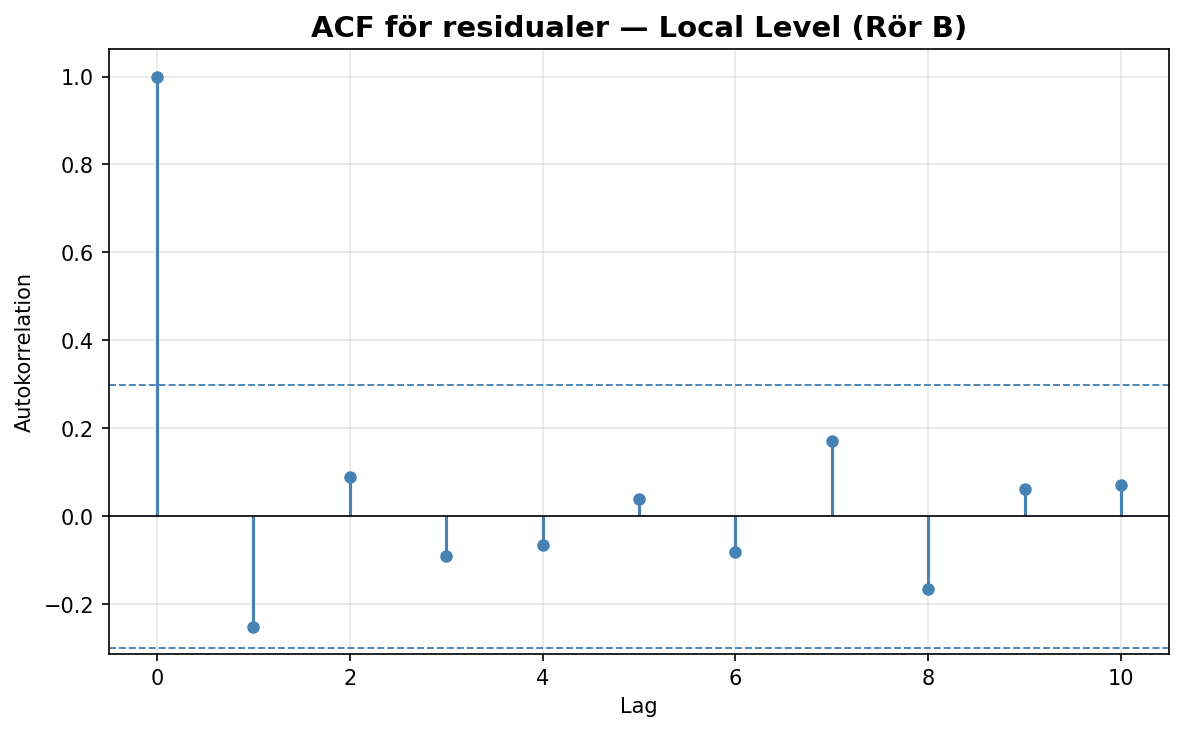
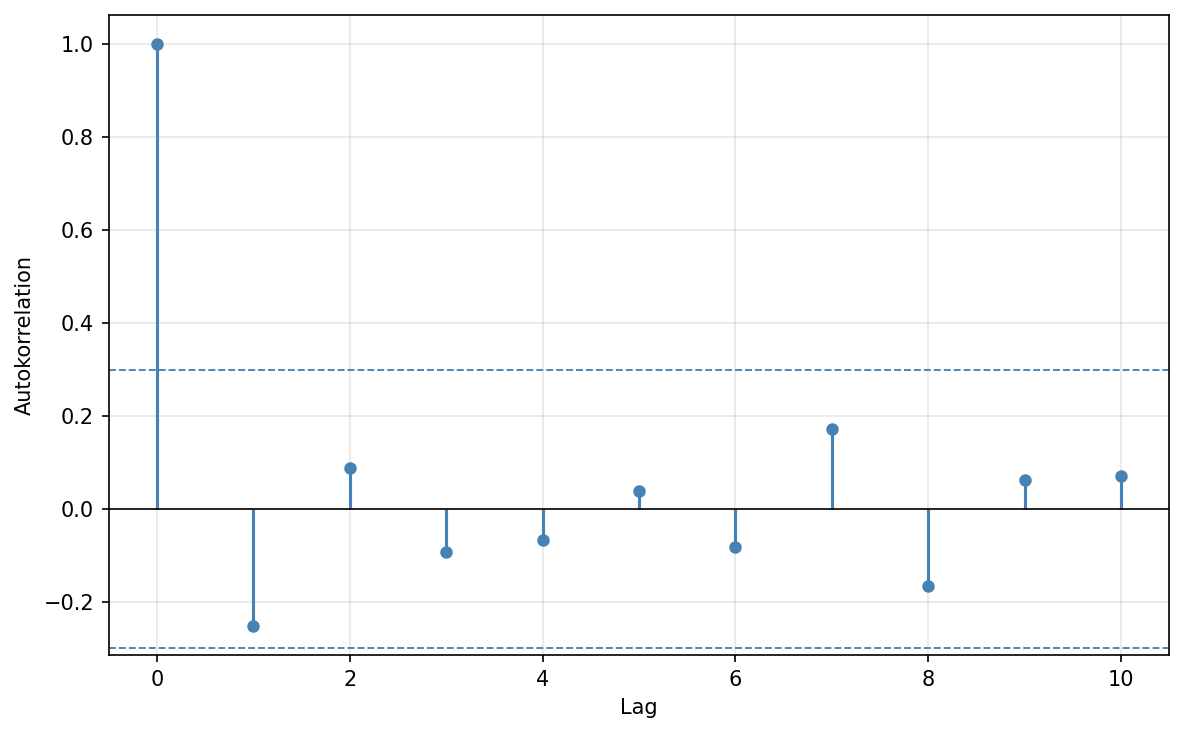
tog bort titel på acf
tog bort titel på acf

diff --git a/kandidatuppsats_endast_basror.py b/kandidatuppsats_endast_basror.py
@@ -394,10 +394,7 @@ def plot_acf_residuals(out: dict, station_id: str, lags: int = 20) -> plt.Figure
     ax.axhline( ci_bound, linestyle="--", color="steelblue", linewidth=0.9)
     ax.axhline(-ci_bound, linestyle="--", color="steelblue", linewidth=0.9)
 
-    ax.set_title(
-        f"ACF för residualer — Local Level ({station_id})",
-        fontsize=14, fontweight="bold",
-    )
+
     ax.set_xlabel("Lag")
     ax.set_ylabel("Autokorrelation")
     ax.grid(True, alpha=0.3)
